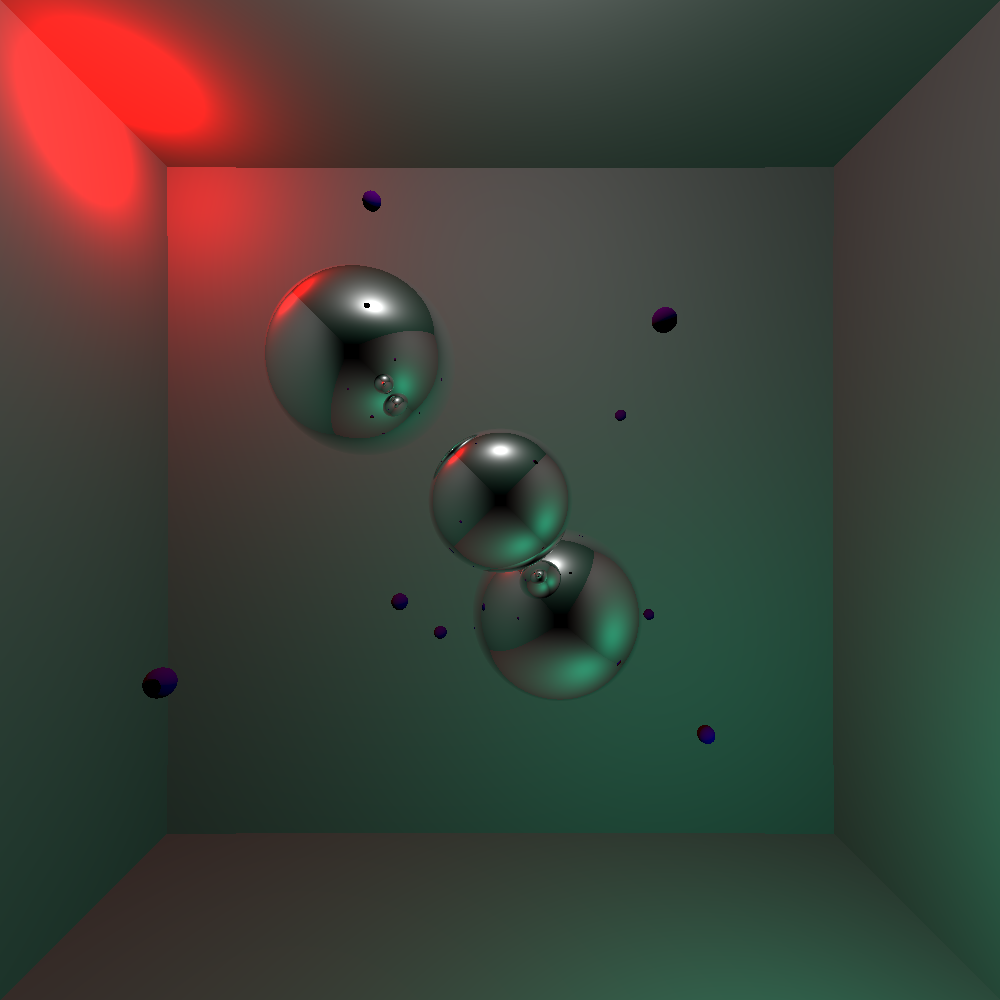
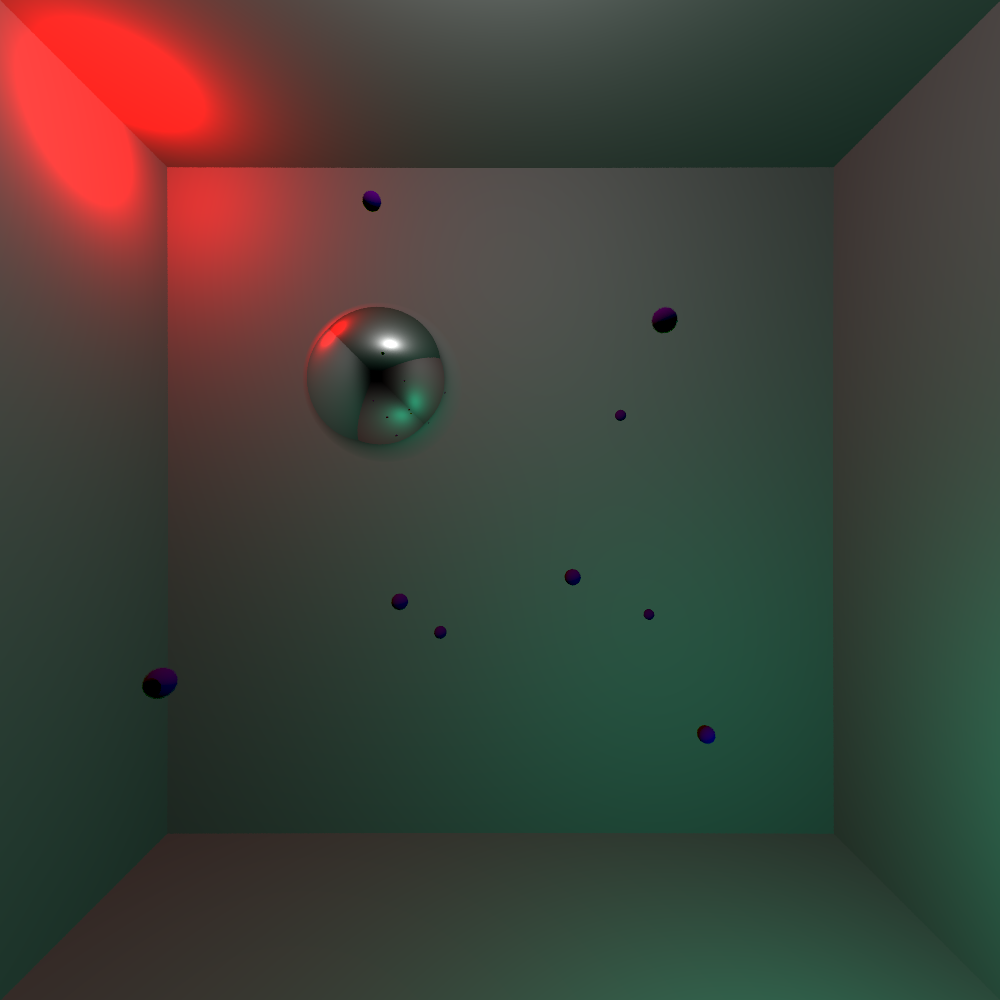
Raytracing : multiple ray are sent for each pixel with little offsets

Changed region(s): [[0.434, 0.434, 0.651, 0.713], [0.248, 0.248, 0.434, 0.434]]

diff --git a/TP2/Synthese_TP2/Scene.cpp b/TP2/Synthese_TP2/Scene.cpp
@@ -7,7 +7,8 @@
 
 Scene::Scene(unsigned int width, unsigned int height, std::shared_ptr<Camera> camera, const color3 &backgroundColor)
     : m_width(width), m_height(height), m_camera(camera), m_backgroundColor(backgroundColor),
-      m_gen(757617000), m_disPosition(0.0f, 1000.0f), m_disSize(1.0f, 50.0f) {}
+      m_gen(757617000), m_disPosition(0.0f, 1000.0f), m_disSize(1.0f, 50.0f), m_disOffsetRay(-1.0f, 1.0f)
+{}
 
 Scene::~Scene() {}
 
@@ -33,9 +34,9 @@ void Scene::createScene() {
     m_objectList.emplace_back(std::shared_ptr<SceneObject>(new Sphere(color3(1, 1, 1), SceneObjectType::DIFFUSE, glm::vec3(0, 0, 101000.0f), 100000.0f)));
 
 
-    m_objectList.emplace_back(std::shared_ptr<SceneObject>(new Sphere(color3(0, 1, 1), SceneObjectType::REFLECTIVE, glm::vec3(0, 0, 200), 100)));
-    m_objectList.emplace_back(std::shared_ptr<SceneObject>(new Sphere(color3(1, 1, 0), SceneObjectType::REFLECTIVE, glm::vec3(100, 200, 400), 150)));
-    m_objectList.emplace_back(std::shared_ptr<SceneObject>(new Sphere(color3(1, 1, 1), SceneObjectType::REFLECTIVE, glm::vec3(-300, -300, 600), 200)));
+    //m_objectList.emplace_back(std::shared_ptr<SceneObject>(new Sphere(color3(0, 1, 1), SceneObjectType::REFLECTIVE, glm::vec3(0, 0, 200), 100)));
+    //m_objectList.emplace_back(std::shared_ptr<SceneObject>(new Sphere(color3(1, 1, 0), SceneObjectType::REFLECTIVE, glm::vec3(100, 200, 400), 150)));
+    m_objectList.emplace_back(std::shared_ptr<SceneObject>(new Sphere(color3(1, 1, 1), SceneObjectType::REFLECTIVE, glm::vec3(-300, -300, 800), 200)));
 
     generateSphere(10);
 }
@@ -57,18 +58,39 @@ void Scene::generateSphere(unsigned int nb) {
 
 
 void Scene::renderImage(const std::string &fileName) {
-
     createScene();
 
+    unsigned int nbCastPerPixel = 10;
 
     std::vector<std::vector<color3>> pixels(m_width, std::vector<color3>(m_height, color3(0, 0, 0)));
 
     // Compute pixel color
     // Also retrieves the max value on each color component
+
+    // For each pixel
     for (unsigned int x = 0; x < m_width; ++x) {
         for (unsigned int y = 0; y < m_height; y++){
-            Ray ray = m_camera->getRay(x, y);
-            pixels[x][y] = rayTracePixel(ray);
+
+            // Setting value to 0 to avoid undefined behaviors
+            pixels[x][y] = color3(0, 0, 0);
+
+            // Send nbCastPerPixel randomly distrubuted around the pixel itself
+            for (unsigned int i = 0; i < nbCastPerPixel; i++){
+
+                Ray ray = m_camera->getRay(x, y);
+
+                // Get offset in range [-1.0f, 1.0f] for BOTH X and Y coordinates
+                // Add both offset to corresponding coordinate in the origin
+                float offsetX = m_disOffsetRay(m_gen);
+                float offsetY = m_disOffsetRay(m_gen);
+
+                ray.m_origin.x += offsetX;
+                ray.m_origin.y += offsetY;
+
+                pixels[x][y] += rayTracePixel(ray);
+            }
+            pixels[x][y] /= nbCastPerPixel;
+
         }
     }
 

diff --git a/TP2/Synthese_TP2/Synthese_TP2.cpp b/TP2/Synthese_TP2/Synthese_TP2.cpp
@@ -1,9 +1,27 @@
 
 #include <iostream>
+#include <sstream>
+#include <chrono>
 
 #include "Synthese_TP2.h"
 #include "OrthographicCamera.h"
 #include "PerspectiveCamera.h"
+
+
+std::string format_duration(std::chrono::milliseconds ms) {
+    using namespace std::chrono;
+    auto secs = duration_cast<seconds>(ms);
+    ms -= duration_cast<milliseconds>(secs);
+    auto mins = duration_cast<minutes>(secs);
+    secs -= duration_cast<seconds>(mins);
+    auto hour = duration_cast<hours>(mins);
+    mins -= duration_cast<minutes>(hour);
+
+    std::stringstream ss;
+    ss << hour.count() << " Hours : " << mins.count() << " Minutes : " << secs.count() << " Seconds : " << ms.count() << " Milliseconds";
+    return ss.str();
+}
+
 
 int main()
 {
@@ -18,9 +36,16 @@ int main()
     float distanceCamera = 500;
     std::shared_ptr<Camera> cam = std::shared_ptr<PerspectiveCamera>(new PerspectiveCamera(width, height, glm::vec3(0, 0, 0), glm::vec3(0, 0, 1), distanceCamera));
 
-
     Scene scene(width, height, std::move(cam), color3(0, 0, 0));
+
+
+    auto t1 = std::chrono::high_resolution_clock::now();
     scene.renderImage("../../../result.png");
+    auto t2 = std::chrono::high_resolution_clock::now();
+
+    auto duration = std::chrono::duration_cast<std::chrono::milliseconds> (t2 - t1);
+    std::cout << "Raytracing execution time (method renderImage) : " << format_duration(duration) << std::endl;
+
 
     sf::Texture texture;
     texture.loadFromImage(scene.getImage());  //Load Texture from image

diff --git a/TP2/Synthese_TP2/Scene.h b/TP2/Synthese_TP2/Scene.h
@@ -41,6 +41,7 @@ private:
 	std::mt19937 m_gen; //(757617000);
 	std::uniform_real_distribution<float> m_disPosition; //(0.0f, 1000.0f);
 	std::uniform_real_distribution<float> m_disSize; //(1.0f, 50.0f);
+	std::uniform_real_distribution<float> m_disOffsetRay; //(-1.0f, 1.0f);
 
 public:
 	Scene(unsigned int width, unsigned int height, std::shared_ptr<Camera> camera, const color3 &backgroundColor);
